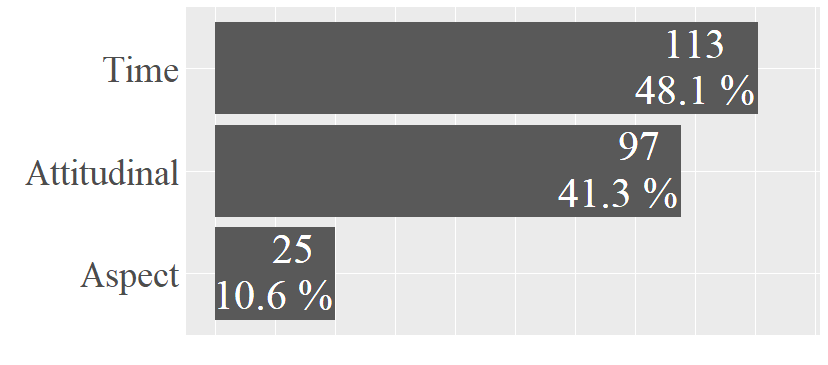
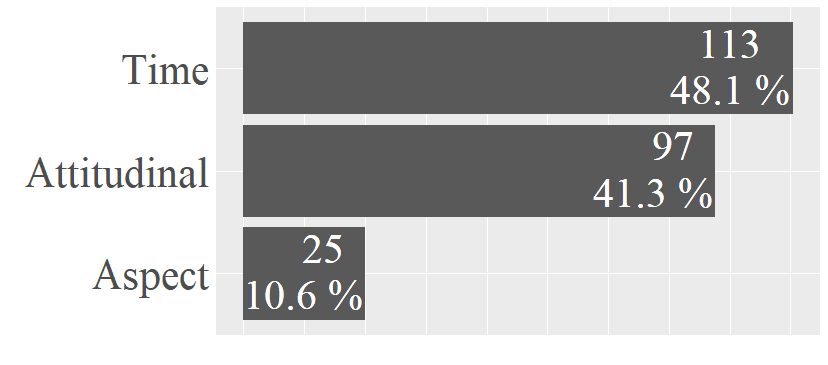
Update

Changed region(s): [[0.0302, 0.0603, 0.4529, 0.874], [0.7548, 0.0603, 0.9662, 0.3315], [0.6643, 0.3315, 0.8756, 0.6027]]

diff --git a/_pages/publications.md b/_pages/publications.md
@@ -5,7 +5,7 @@ permalink: /publications/
 author_profile: true
 ---
 
-<img align="left" width="300" height="110" src="./../images/Rplot01.png" style="padding-right:20px; padding-top:20px"/>
+<img align="left" width="300" height="110" src="./../images/CollartSu_Sum.png" style="padding-right:20px; padding-top:20px"/>
 
 **Encoding the existence of an event with ‘you (to have) + VP’ in Taiwan Mandarin: A corpus-based investigation**<br>
 <u>Collart, A.</u>, & Su, H.-K. <br>
